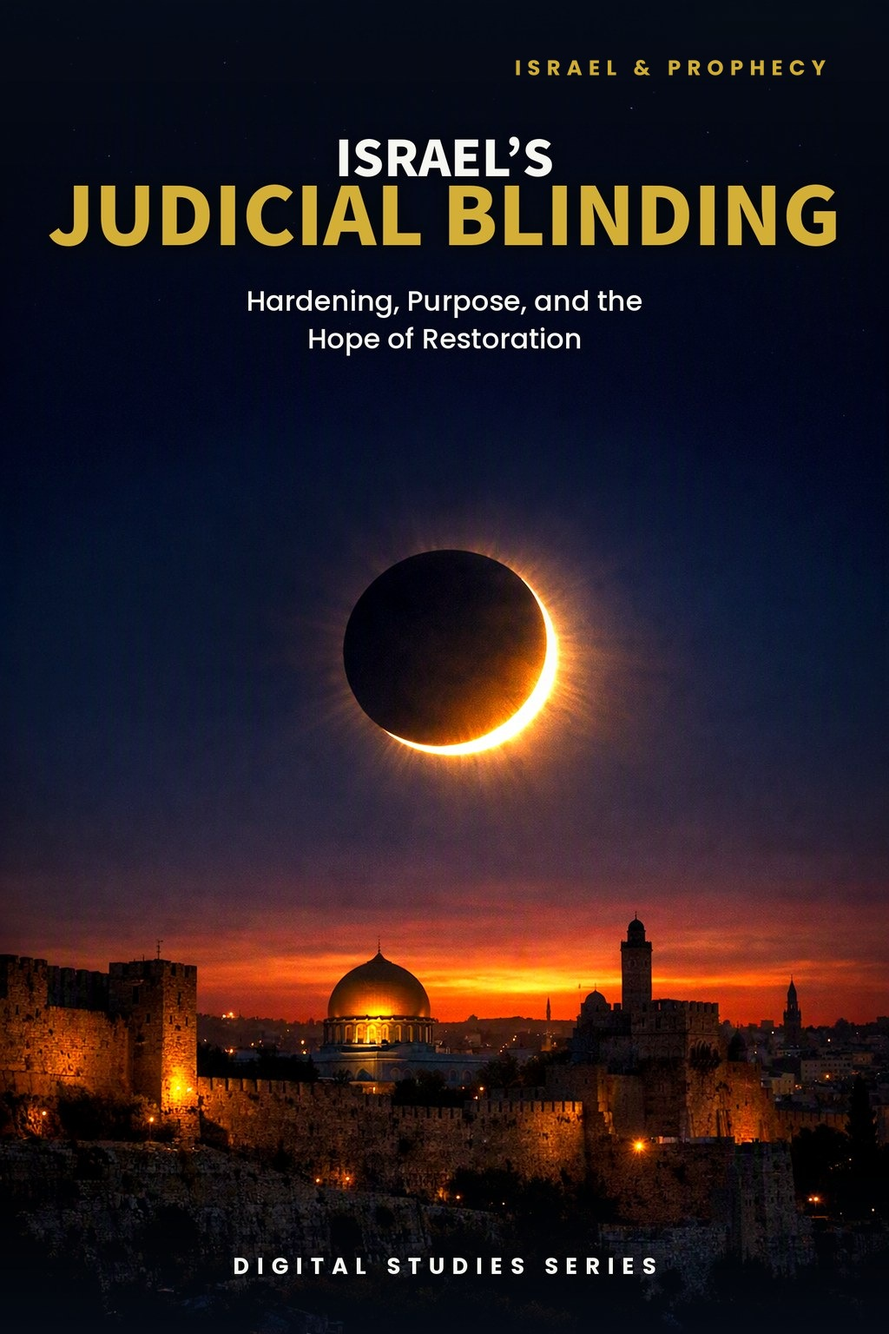
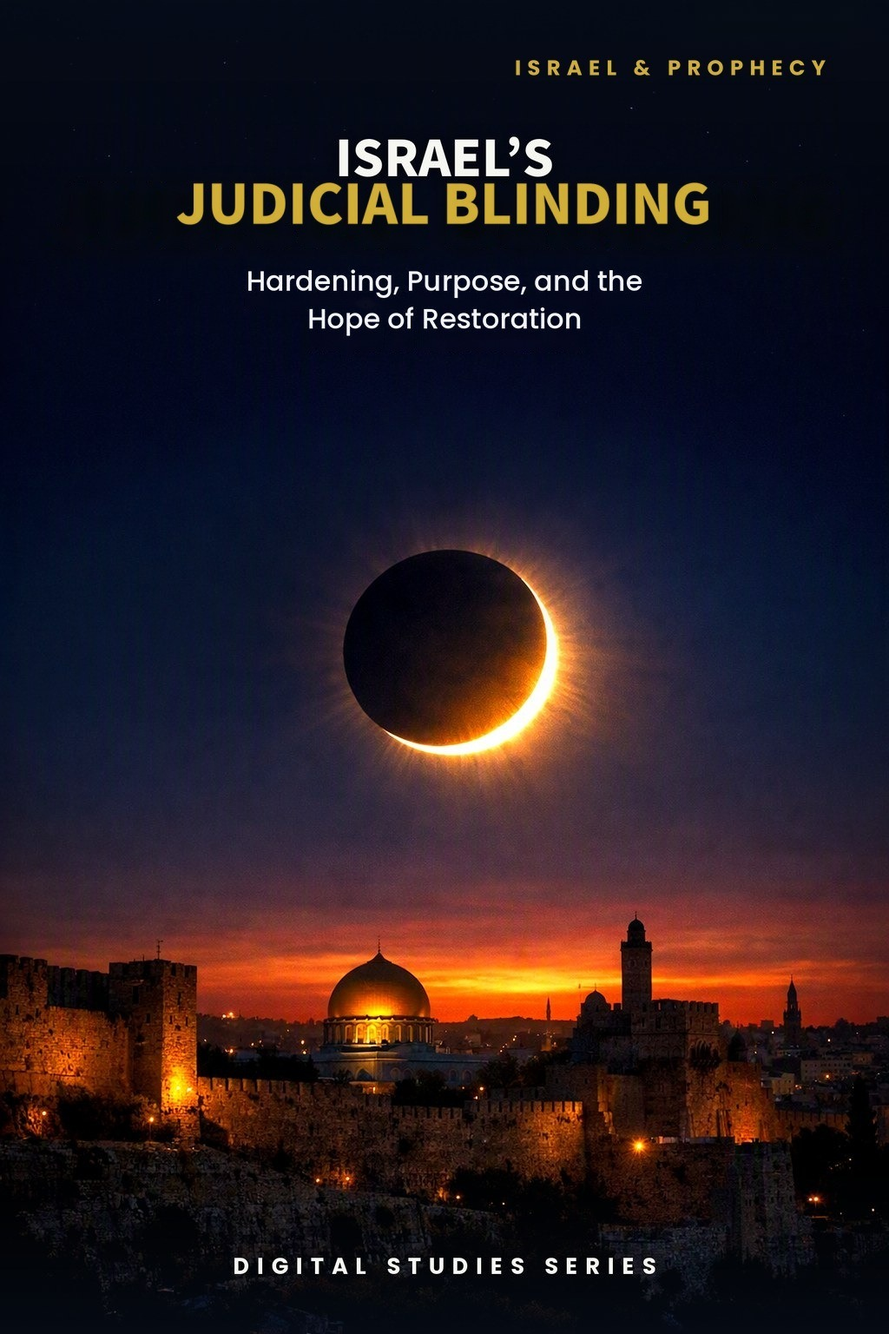
Study 21: Roboto rebuild, approved PAM additions, cover title reduced (jpg+webp), three previews, 16 pages; tracker v1.50
Claude-Session: https://claude.ai/code/session_01TLNFW47XCW6YAMUxScR3v4

Changed region(s): [[0.0625, 0.125, 0.9375, 0.2812]]

diff --git a/study-21-israels-judicial-blinding.html b/study-21-israels-judicial-blinding.html
@@ -14,7 +14,7 @@
   <body class="study-detail-page">
     <header class="site-header"><div class="wrap nav"><a class="logo" href="index.html" aria-label="Zay-Marie Press home"><img src="assets/zay-marie-press-logo-hq.png" alt="Zay-Marie Press" width="420" height="238" /></a><button class="menu-toggle" type="button" aria-expanded="false" aria-controls="primary-nav">MENU</button><nav aria-label="Primary navigation" class="primary-nav" id="primary-nav"><a href="index.html">HOME</a><a href="books.html">BOOKS</a><a href="series.html">SERIES</a><a class="active" aria-current="page" href="digital-studies.html">DIGITAL STUDIES</a><a href="biblical-hermeneutics-course.html">COURSE</a><a href="about.html">ABOUT</a><a href="resources.html">RESOURCES</a><a href="contact.html">CONTACT</a></nav></div></header>
     <main>
-      <section class="detail-hero"><div class="wrap detail-hero-grid"><div class="detail-cover"><img src="assets/study-21-cover.jpg" alt="Israel’s Judicial Blinding - Study 21 cover" /></div><div><div class="eyebrow">STUDY 21 · DIGITAL STUDY</div><h1>Israel’s Judicial Blinding</h1><p class="detail-subtitle">Hardening, Purpose, and the Hope of Restoration</p><p class="detail-kicker">A Clearer Understanding of Romans 11 and the Acts 28 Boundary</p><p class="detail-copy">Israel’s judicial blinding must be understood within the full Acts narrative. Isaiah’s hardening language appears before Acts 28, yet Israel’s active national Prophecy administration continues during the Acts Overlap while the Mystery administration also operates distinctly through Paul.</p><p class="detail-copy">This study follows the biblical evidence to Acts 28, where the final recorded Israelward appeal reaches its judicial boundary. It explains what is suspended, what remains true, and why Romans 11 preserves Israel’s future restoration.</p><div class="detail-buyline"><span class="detail-price">$5.99</span><span class="detail-format">Digital PDF · 14 Pages</span><span class="detail-button pending" aria-disabled="true">Checkout Coming Soon</span></div></div></div></section>
+      <section class="detail-hero"><div class="wrap detail-hero-grid"><div class="detail-cover"><picture><source srcset="assets/study-21-cover.webp" type="image/webp"><img src="assets/study-21-cover.jpg" alt="Israel’s Judicial Blinding - Study 21 cover" /></picture></div><div><div class="eyebrow">STUDY 21 · DIGITAL STUDY</div><h1>Israel’s Judicial Blinding</h1><p class="detail-subtitle">Hardening, Purpose, and the Hope of Restoration</p><p class="detail-kicker">A Clearer Understanding of Romans 11 and the Acts 28 Boundary</p><p class="detail-copy">Israel’s judicial blinding must be understood within the full Acts narrative. Isaiah’s hardening language appears before Acts 28, yet Israel’s active national Prophecy administration continues during the Acts Overlap while the Mystery administration also operates distinctly through Paul.</p><p class="detail-copy">This study follows the biblical evidence to Acts 28, where the final recorded Israelward appeal reaches its judicial boundary. It explains what is suspended, what remains true, and why Romans 11 preserves Israel’s future restoration.</p><div class="detail-buyline"><span class="detail-price">$5.99</span><span class="detail-format">Digital PDF · 16 Pages</span><span class="detail-button pending" aria-disabled="true">Checkout Coming Soon</span></div></div></div></section>
       <section class="detail-section"><div class="wrap"><div class="eyebrow">ABOUT THIS STUDY</div><h2>What Does Judicial Blinding Mean?</h2><p class="lead">Judicial blinding is a real national judgment, but it is neither individually exhaustive nor covenant-canceling. Believing Israelites remain, Israel’s promises remain valid, and Romans 11 looks ahead to future restoration.</p><p class="lead">This study distinguishes recurring prophetic hardening language from the climactic administrative boundary at Acts 28. It preserves the concurrent operation of Prophecy and Mystery during Acts 9–28 while identifying the judicial suspension of Israel’s active national Prophecy administration at Acts 28.</p><p class="lead">This is not a study of the believing remnant’s own continued existence within Israel, which Study 9 follows in its own right, nor of Romans 11’s olive-tree image of branches broken off and grafted in, which Study 13 reads on its own terms. Its task is narrower: to fix the exact extent of Israel’s corporate hardening — what it covers and what it leaves untouched — and to ask whether a judicial suspension of Israel’s national administration can ever be read as canceling a covenant promise rather than merely postponing its exercise.</p><div class="study-distinction"><h3>How These Studies Relate</h3><p>Study 21 traces Israel’s corporate judicial blinding in Romans 11 and Acts 28.</p><p><a href="study-09-the-remnant.html">Study 9 — The Remnant</a> Follow the believing remnant through the same national history; its existence explains why corporate hardening does not erase every Israelite’s faith.</p><p><a href="study-13-the-olive-tree-and-the-body-of-christ.html">Study 13 — The Olive Tree and the Body of Christ</a> Read Paul’s natural branches, wild branch, and future reception in Romans 11; the olive-tree illustration makes the consequences and limits of hardening more precise.</p><p><a href="study-63-isaiah-7-13-16.html">Study 63 — Isaiah 7:13–16</a> Read the sign given to the house of David in the chapter after Isaiah 6; Study 21 traces the hardening announced just before it.</p><p class="connection-guide-link"><a href="study-connections.html#study-21">Explore the full connection guide for Study 21 →</a></p></div><div class="cross-strand-note"><p class="cross-strand-label">FROM THE PARABLES STRAND</p><p>Three parables narrate, in story form, the rejection this study explains doctrinally.</p><p><a href="parable-07-the-wicked-tenants.html">The Wicked Tenants</a> · <a href="parable-08-the-wedding-banquet.html">The Wedding Banquet</a> · <a href="parable-09-the-great-banquet.html">The Great Banquet</a></p></div></div></section>
       <section class="detail-section soft"><div class="wrap"><div class="eyebrow">WHAT YOU’LL STUDY</div><h2>Follow the Biblical Evidence to Acts 28</h2><div class="study-points">
         <div class="study-point"><h3>Isaiah 6 and Judicial Hardening</h3><p>Begin with the prophetic vocabulary of seeing, hearing, resistance, and covenant responsibility.</p></div>
@@ -36,13 +36,12 @@
       </div></div></section>
       <section class="detail-section"><div class="wrap"><div class="eyebrow">FROM THE STUDY</div><h2>Judgment Must Be Defined by the Text</h2><div class="excerpt"><blockquote>“Hardening language by itself does not establish that every administrative opportunity has already been withdrawn.”</blockquote><p>The study traces each passage in its own setting, distinguishes recurring resistance from the Acts 28 judicial boundary, and preserves the certainty of Israel’s future prophetic restoration.</p></div></div></section>
       <section class="detail-section soft"><div class="wrap"><div class="eyebrow">A LOOK INSIDE</div><h2>Preview the Study Before You Purchase</h2><p class="preview-instruction">Click any page to enlarge it for reading.</p><div class="preview-grid">
-        <div class="preview-card"><a class="preview-image-link" data-preview-lightbox href="assets/study-21-page-2.jpg"><img src="assets/study-21-page-2.jpg" alt="Study 21 interior preview — page 2, What You Will Learn in This Study" /></a><div class="page-no">Page 2</div><h3>What You Will Learn in This Study</h3><p>Begin with the governing questions, chronology, and distinctions that guide the study.</p></div>
-        <div class="preview-card"><a class="preview-image-link" data-preview-lightbox href="assets/study-21-page-6.jpg"><img src="assets/study-21-page-6.jpg" alt="Study 21 interior preview — page 6, Israel’s resistance through Acts" /></a><div class="page-no">Page 6</div><h3>Israel’s Resistance Through Acts</h3><p>Follow the continuing Israelward prophetic appeal while the Mystery administration begins with Paul.</p></div>
-        <div class="preview-card"><a class="preview-image-link" data-preview-lightbox href="assets/study-21-page-8.jpg"><img src="assets/study-21-page-8.jpg" alt="Study 21 interior preview — page 8, Romans 11 and the believing remnant" /></a><div class="page-no">Page 8</div><h3>Romans 11 and the Believing Remnant</h3><p>See why Israel’s national condition does not make every Israelite incapable of believing.</p></div>
-        <div class="preview-card"><a class="preview-image-link" data-preview-lightbox href="assets/study-21-page-11.jpg"><img src="assets/study-21-page-11.jpg" alt="Study 21 interior preview — page 11, Study Summary and Key Distinctions" /></a><div class="page-no">Page 11</div><h3>Study Summary and Key Distinctions</h3><p>Review the Acts Overlap, the Acts 28 boundary, and Israel’s secure covenantal future.</p></div>
+        <div class="preview-card"><a class="preview-image-link" data-preview-lightbox href="assets/study-21-page-2.jpg"><img src="assets/study-21-page-2.jpg" alt="Study 21 interior preview — page 2, table of contents" /></a><div class="page-no">Page 2</div><h3>Table of Contents</h3><p>See the full structure of the study, from the introduction through the final synthesis.</p></div>
+        <div class="preview-card"><a class="preview-image-link" data-preview-lightbox href="assets/study-21-page-3.jpg"><img src="assets/study-21-page-3.jpg" alt="Study 21 interior preview — page 3, What You Will Learn in This Study" /></a><div class="page-no">Page 3</div><h3>What You Will Learn in This Study</h3><p>Begin with the questions and the passages the study traces, from Isaiah to Acts 28.</p></div>
+        <div class="preview-card"><a class="preview-image-link" data-preview-lightbox href="assets/study-21-page-4.jpg"><img src="assets/study-21-page-4.jpg" alt="Study 21 interior preview — page 4, Introduction, Judgment Must Be Defined by the Text" /></a><div class="page-no">Page 4</div><h3>Introduction: Judgment Must Be Defined by the Text</h3><p>Start with the interpretive question the study asks before any passage is examined.</p></div>
       </div></div></section>
       <section class="detail-section"><div class="wrap"><div class="eyebrow">WHAT’S INCLUDED</div><h2>A Focused Study Built for<br />Understanding and Teaching</h2><div class="includes-grid">
-        <div class="include-item"><h3>14-Page Biblical Study</h3><p>A focused study of Israel’s judicial blinding from Isaiah through Acts 28 and Romans 11.</p></div>
+        <div class="include-item"><h3>16-Page Biblical Study</h3><p>A focused study of Israel’s judicial blinding from Isaiah through Acts 28 and Romans 11.</p></div>
         <div class="include-item"><h3>Fifteen Teaching Sections</h3><p>Follow the argument from prophetic hardening language to the Acts 28 judicial boundary.</p></div>
         <div class="include-item"><h3>Romans 11 Analysis</h3><p>Trace the scope, remnant, duration, covenant status, and future outcome of Israel’s hardening.</p></div>
         <div class="include-item"><h3>Acts 28 Boundary</h3><p>Examine the final recorded Israelward appeal and Paul’s Isaiah pronouncement at Rome.</p></div>
@@ -51,7 +50,7 @@
         <div class="include-item"><h3>Scripture-Tracing Exercise</h3><p>Trace Isaiah, the Gospels, Acts, and Romans 11 in their own narrative settings.</p></div>
         <div class="include-item"><h3>Teaching and Discussion Tools</h3><p>Use review questions, a teaching outline, further study, and final synthesis for personal or group use.</p></div>
       </div></div></section>
-      <section class="detail-section cream"><div class="wrap"><div class="final-buy"><div><div class="eyebrow">STUDY 21 · DIGITAL STUDY</div><h2>Israel’s Judicial Blinding</h2><p>14-page digital PDF · For personal use</p></div><div class="final-offer"><div class="detail-price">$5.99</div><span class="detail-button pending" aria-disabled="true">Checkout Coming Soon</span></div></div><a class="back-link" href="digital-studies.html">← Back to All Digital Studies</a></div></section>
+      <section class="detail-section cream"><div class="wrap"><div class="final-buy"><div><div class="eyebrow">STUDY 21 · DIGITAL STUDY</div><h2>Israel’s Judicial Blinding</h2><p>16-page digital PDF · For personal use</p></div><div class="final-offer"><div class="detail-price">$5.99</div><span class="detail-button pending" aria-disabled="true">Checkout Coming Soon</span></div></div><a class="back-link" href="digital-studies.html">← Back to All Digital Studies</a></div></section>
     <section class="study-method-course-bridge"><div class="wrap"><div class="study-method-course-panel"><div><div class="eyebrow">BUILD THE INTERPRETIVE METHOD</div><h2>Want More Than a Focused Study?</h2><p>Digital Studies examine particular biblical subjects and difficult passages. The 40-lesson Biblical Hermeneutics course teaches a complete, repeatable method for establishing meaning in context, determining proper assignment, and making responsible application.</p></div><a class="btn btn-primary" href="biblical-hermeneutics-course.html">BIBLICAL HERMENEUTICS COURSE</a></div></div></section></main><footer class="site-footer"><div class="wrap footer-grid"><div class="footer-about"><h3>Zay-Marie Press</h3><p class="footer-tagline"><em>Where the Bible Means What It Says.</em></p><p>Zay-Marie Press is a Christian theological publisher dedicated to producing doctrinally precise, carefully structured biblical resources that equip pastors, teachers, and serious students with clarity, depth, and Scripture-anchored truth.</p><p><a href="https://zaymariepress.com">zaymariepress.com</a><br/><a href="mailto:info@zaymariepress.com">info@zaymariepress.com</a></p></div><div class="footer-column"><h3>Explore</h3><div class="footer-links-stacked"><a href="books.html">Books</a><br/><a href="series.html">Series</a><br/><a href="biblical-hermeneutics-course.html">Course</a><br/><a href="digital-studies.html">Digital Studies</a><br/><a href="resources.html">Resources</a><br/><a href="bible-book-summaries.html">Bible Book Summaries</a><br/><a href="doctrinal-packets.html">Doctrinal Packets</a><br/><a href="historical-drift.html">Historical Drift</a><br/><a href="about.html">About</a><br/><a href="contact.html">Contact</a></div></div><div class="footer-column"><h3>Reader Support</h3><div class="footer-links-stacked"><a href="reader-support.html#faq">FAQ</a><br/><a href="reader-support.html#shipping-returns">Shipping &amp; Returns</a><br/><a href="reader-support.html#digital-downloads">Digital Downloads</a><br/><a href="reader-support.html#contact-support">Contact Support</a></div></div><div class="footer-column"><h3>Acts Overlap</h3><p><strong>Acts Overlap Theology Series</strong></p><p><em>Two Distinct Streams. One Overlap.</em></p><p><a href="series.html">Series Overview</a></p></div></div><div class="wrap footer-bottom">© 2026 Zay-Marie Press. All rights reserved.</div></footer>
     <div class="preview-lightbox" id="preview-lightbox" role="dialog" aria-modal="true" aria-label="Expanded study preview"><button class="preview-lightbox-close" type="button" aria-label="Close preview">×</button><img id="preview-lightbox-image" alt="" /></div>
     <script>

diff --git a/site.js b/site.js
@@ -62,7 +62,7 @@ const resourceModal=document.querySelector('#resource-modal'), resourceModalTitl
 if(resourceModal&&resourceModalTriggers.length){const closeResourceModal=()=>{resourceModal.hidden=true;document.body.classList.remove('resource-modal-open');lastResourceTrigger?.focus();};resourceModalTriggers.forEach(trigger=>trigger.addEventListener('click',()=>{lastResourceTrigger=trigger;if(resourceModalTitle)resourceModalTitle.textContent=trigger.dataset.title||'Resource';if(resourceModalDescription)resourceModalDescription.textContent=trigger.dataset.description||'';if(resourceModalLink){resourceModalLink.href=trigger.dataset.href||'#';resourceModalLink.textContent=trigger.dataset.linkText||'OPEN RESOURCE';}resourceModal.hidden=false;document.body.classList.add('resource-modal-open');resourceModalClose?.focus();}));resourceModalClose?.addEventListener('click',closeResourceModal);resourceModal.addEventListener('click',e=>{if(e.target===resourceModal)closeResourceModal();});document.addEventListener('keydown',e=>{if(e.key==='Escape'&&!resourceModal.hidden)closeResourceModal();});}
 
 /* Display the verified final-PDF page count at the primary purchase decision point. */
-const digitalStudyPageCounts={1:14,2:14,3:18,4:18,5:16,6:16,7:16,8:16,9:16,10:23,11:15,12:14,13:18,14:15,15:16,16:16,17:18,18:18,19:16,20:16,21:14,22:15,23:15,24:13,25:13,26:17,27:15,28:14,29:13,30:17,31:17,32:14,33:15,34:16,35:15,36:15,37:15,38:16,39:16,40:15,41:15,42:15,43:17,44:15,45:15,46:15,47:16,48:15,49:14,50:14,51:15,52:15,53:15,54:15,55:16,56:16,61:16,62:16,63:16,64:16,65:16,66:16,67:16,68:16,69:16,70:16,71:16};
+const digitalStudyPageCounts={1:14,2:14,3:18,4:18,5:16,6:16,7:16,8:16,9:16,10:23,11:15,12:14,13:18,14:15,15:16,16:16,17:18,18:18,19:16,20:16,21:16,22:15,23:15,24:13,25:13,26:17,27:15,28:14,29:13,30:17,31:17,32:14,33:15,34:16,35:15,36:15,37:15,38:16,39:16,40:15,41:15,42:15,43:17,44:15,45:15,46:15,47:16,48:15,49:14,50:14,51:15,52:15,53:15,54:15,55:16,56:16,61:16,62:16,63:16,64:16,65:16,66:16,67:16,68:16,69:16,70:16,71:16};
 const digitalStudyMatch=window.location.pathname.match(/\/study-(\d+)-/i);
 const digitalStudyFormat=document.querySelector('.detail-hero .detail-format');
 if(digitalStudyMatch&&digitalStudyFormat){const studyNumber=Number(digitalStudyMatch[1]),pageCount=digitalStudyPageCounts[studyNumber];if(pageCount)digitalStudyFormat.textContent=`Digital PDF · ${pageCount} Pages`;}

diff --git a/controlling-documents/Digital_Studies_PAM_Audit_v1.50.md b/controlling-documents/Digital_Studies_PAM_Audit_v1.50.md
@@ -279,3 +279,4 @@ Study 15 PDF not yet supplied. Typography: none of Studies 2, 3, 6, 8 is in EB G
 - v1.47 (2026-10-01): Catalog regression fixed and logged. After the v1.45/v1.46 pushes (13d7748, 3b86388) the publisher reported that the category pill buttons no longer worked. Cause: the re-sort script removed the Thematic Collections section and broke the catalog's inline scripts. Fix (29b411c, approved "i approve"): the catalog was rebuilt from the pre-re-sort page and only the study cards were moved; non-card content is identical to the earlier version. Checked locally before pushing: desktop pills 7 / 17 / 14 / 13 / 20 / 71 by clicking each, phone-width category select the same, 8 collection cards, no script errors. Checked live afterward (built-in browser pane, about 804 px wide, cache-busted): 8 collection cards present; category select returns 7 / 17 / 14 / 13 / 20 / 71. Not checked live: clicking the desktop pill buttons (hidden at that pane width); the publisher is asked to confirm on his phone. Lesson recorded: after any catalog edit, click every pill and count collections and script errors, not only card counts. No study files or rules changed.
 - v1.48 (2026-10-01): Study 19 (The Jerusalem Council) read in full against the PAM and Framework from the publisher's DOCX (CORRECTED, 12 pages): clear, no conflicts (Acts 15 kept in the Acts 9–28 Overlap and not assigned to one program, matching the Section 4 ruling; "recognition without absorption" matches the PAM's "recognition of two ministries operating in overlap"; the study never says the Body began at Acts 15). The publisher approved three PAM additions, inserted exactly as proposed: (1) Cornelius (Acts 10–11) stated as an event within Israel's Prophecy Program during the Overlap, not Pauline revelation and not the beginning of the Body (replaces the first sentence of the Peter's-testimony paragraph, Section 2); (2) Galatians 2:7–9, gospel of the uncircumcision and of the circumcision, "the text states the two commissions; the council does not merge them" (Section 9, after "It is recognition without absorption."); (3) "Nothing in Acts 15 applies the New Covenant to Gentiles. The council addresses what may be required of Gentile believers, not who the covenant parties are." (end of "The Importance of What Was Not Imposed", Section 6). The publisher ruled that the decree wording on the four restrictions (not automatically a shortened Mosaic Law) stays as written. Rebuilt in Roboto to Master Standard v1.30: 16 pages (cover plus 15 interior; the source text alone fills 14 interior pages in this format, so only one of five drafted KJV tables was kept: "Acts 15:16–17 Beside Amos 9:11–12"; the other four, Road to the Council, Peter Recalls Cornelius, the Letter in Acts 15:22–29 and Galatians 2:1–10 Beside Acts 15, are written and held back for length), margins 0.667 in. "What You Will Learn" bullets rewritten as process (five of eight stated conclusions; §17), Study Goal reworded ("explain, from the text itself, what the council recognized and what it resolved"), Interpretive Control moved to the Introduction, Study Outline redrafted as process-only bullets, seven callouts reduced to five boxed (Study Goal, Interpretive Control, Prophecy Remains Prophecy, Acts Overlap Principle, Final Doctrinal Principle; The Central Question and The Decree Is Not a Shortened Mosaic Covenant became bold run-in paragraphs), TOC first with page numbers, Teaching Outline and Guided Further Study split into bullets, running header removed, standard imprint (personal-use wording dropped), one spacer paragraph so a data table and a callout do not merge, Scripture-Tracing table allowed to break across pages. Word-by-word comparison against the source shows only the intended changes. Category: Passages (already ruled; one passage walked verse by verse), cover label PASSAGES. Cover: the publisher supplied a new image (1684 x 2528) which replaces the earlier art, trimmed 2 px and scaled to 1024 x 1536; JPG and a new WebP (page now uses a picture element with the JPG as fallback). Website: preview strip cut from four cards to three (Table of Contents p2, What You Will Learn p3, Introduction and the Controversy p4); old p5, p7 and p11 images removed; the six "What You'll Study" points rewritten as process (five stated conclusions; §17); page count 13 to 16 in site.js, the hero line, the What's Included card and the buy panel. Checked locally at 1280, 390, 360 and 320 px: no sideways overflow, all images load, 3 preview cards, 6 study points, no script errors. Publisher approved ("i approv") and pushed. Choice for the publisher to review: no page of this study is free of conclusions, so the third preview page is page 4 (the introduction and the controversy), the least conclusive. Next file needed: Study 20.
 - v1.49 (2026-10-01): Study 20 (Understanding Acts 2:38) read in full against the PAM and Framework from the publisher's PDF (13 pages; no DOCX): clear, no conflicts (Acts 2 as Prophecy/Kingdom setting with Joel 2, "Repent and be baptized" not Spirit baptism into the Body, Mystery from Acts 9 and not Pentecost per PAM Rule 4, Acts 9–28 overlap, Prophecy suspended at Acts 28). Silent points (Acts 3:19–21, remission of sins, "all that are afar off" in Acts 2:39) are reported as text only. The publisher approved the proposed additions: (1) Paul's water baptisms (Acts 16:15, 33; 18:8; 19:5; 1 Cor. 1:14–16) acknowledged at the end of the second paragraph of Section 10, from the Framework's water-baptism ruling (not denied; read within the Acts 9–28 concurrency; do not give Paul the Twelve's commission; do not make water baptism the Body's defining baptism); (2) "Kingdom entry" (PAM, Acts 2) added in Section 5; (3) the undefined "Seven Diagnostic Lenses" reworded to "seven lenses" with the seven listed. Rebuilt in Roboto to Master Standard v1.30: 16 pages (cover plus 15 interior; source was 12 interior); one KJV table added, "Joel 2:28–32 Beside Acts 2:16–21" (a second, "The Sermon in Order" for Acts 2:14–37, written and held back for length). Introduction starts on its own page; the Peter art kept on page 4. "What You Will Learn" rewritten as eight process bullets (six stated conclusions; §17), Study Goal reworded, Study Outline redrafted as process-only bullets, seven callouts reduced to five boxed (Study Goal, Interpretive Control, Do Not Weaken Peter's Words, Acts Overlap Principle, Final Study Control; Context Before Formula and Audience Control became bold run-ins), Roman-numeral Teaching Outline converted to bold group heads with bullets, TOC first with page numbers, standard imprint added, headings use the em dash. Category: Passages (already ruled), cover label PASSAGES. Cover: publisher-supplied image (686 x 1024) trimmed 3 px to 2:3 and scaled to 1024 x 1536; JPG and a new WebP (page now uses a picture element with the JPG fallback). Website: previews now Table of Contents p2, What You Will Learn p3, Introduction p4 (old p5 removed); page count 13 to 16 in site.js, hero line, What's Included card and buy panel text; the six "What You'll Study" points were left as audited in v1.1. Publisher approved ("i approve"); pushed.
+- v1.50 (2026-10-01): Study 21 (Israel's Judicial Blinding) read in full against the PAM and Framework from the publisher's PDF (14 pages, v25; no DOCX): clear, no conflicts (Acts 28 as the national judicial suspension of Israel's Prophecy administration, "suspended, not abolished"; Acts 9–28 overlap; Mystery continues beyond Acts 28; Acts 28 distinct from the local turns to the Gentiles; covenants not transferred to the Body). The publisher approved three additions, inserted as proposed: (1) Romans 11:25 classified as Prophecy Program content, Israel's future restoration, given during the Mystery administration, with the fulness of the Gentiles not the Body's fullness (end of Section 9, from the PAM and the Section 4 ruling); (2) the remnant of Romans 11:5 classified as Israel's believing remnant, the same as the Old Testament remnant, in the Prophecy Program, never Gentiles and not the Body by identity, ethnic-covenantal and not administrative, with believing Jews gathered into the Body during the Mystery administration and no separate prophetic remnant placed outside it (Section 8; PAM and the 2026-09-30 remnant ruling); (3) a sentence naming the local turns to the Gentiles (Acts 13:46; 18:6; 19:8–9) against the national pronouncement at Acts 28 (Section 12, Framework). Four source defects fixed with approval: a table cell cut off at "or future" now reads "or future fulfillment"; an orphan caption ("Romans 11:25 — Israel's blindness is national, partial, and bounded.") with no image removed; an empty-left-cell row in the Acts 28 table removed (Section 13 states the point); the old copyright line replaced with the standard imprint. Rebuilt in Roboto to Master Standard v1.30 from the PDF text: 16 pages (cover plus 15 interior, no added tables needed; two drafted KJV tables, "Isaiah 6:9–10 Beside Its New Testament Uses" and "Romans 11:25–29 Clause by Clause", written and held back, each about one page). "What You Will Learn" rewritten as eight process bullets (six stated conclusions; §17), Study Goal reworded, Study Outline kept as process bullets with two lines reworded, six callouts reduced to five boxed (Study Goal, Interpretive Control, Romans 11 Control, Acts 28 Boundary, Final Control; Overlap Control became a bold run-in), running header removed, Roman-numeral Teaching Outline converted to bold group heads with bullets, checkbox list turned into a Scripture-Tracing table (Roboto has no box glyph), curly quotes and en dashes normalized, TOC first with page numbers, headings use the em dash. Word-level comparison against the source shows only the intended changes. Category: Israel & Prophecy (already ruled), cover label ISRAEL & PROPHECY. Cover: the website cover, with the title "JUDICIAL BLINDING" reduced 25% and then a further 10% (to 67.5% of its original size, top edge and spacing to the subtitle kept; the subtitle moved up about 23 px) by the publisher's direction; JPG re-saved and a new WebP (page now uses a picture element with the JPG fallback). Website: previews cut from four cards to three (Table of Contents p2, What You Will Learn p3, Introduction p4); old p6, p8 and p11 images removed; page count 14 to 16 in site.js, the hero line, the What's Included card and the buy panel; the six "What You'll Study" points left as audited in v1.1. Publisher approved cover and content ("i approve of cover and content"); pushed.
